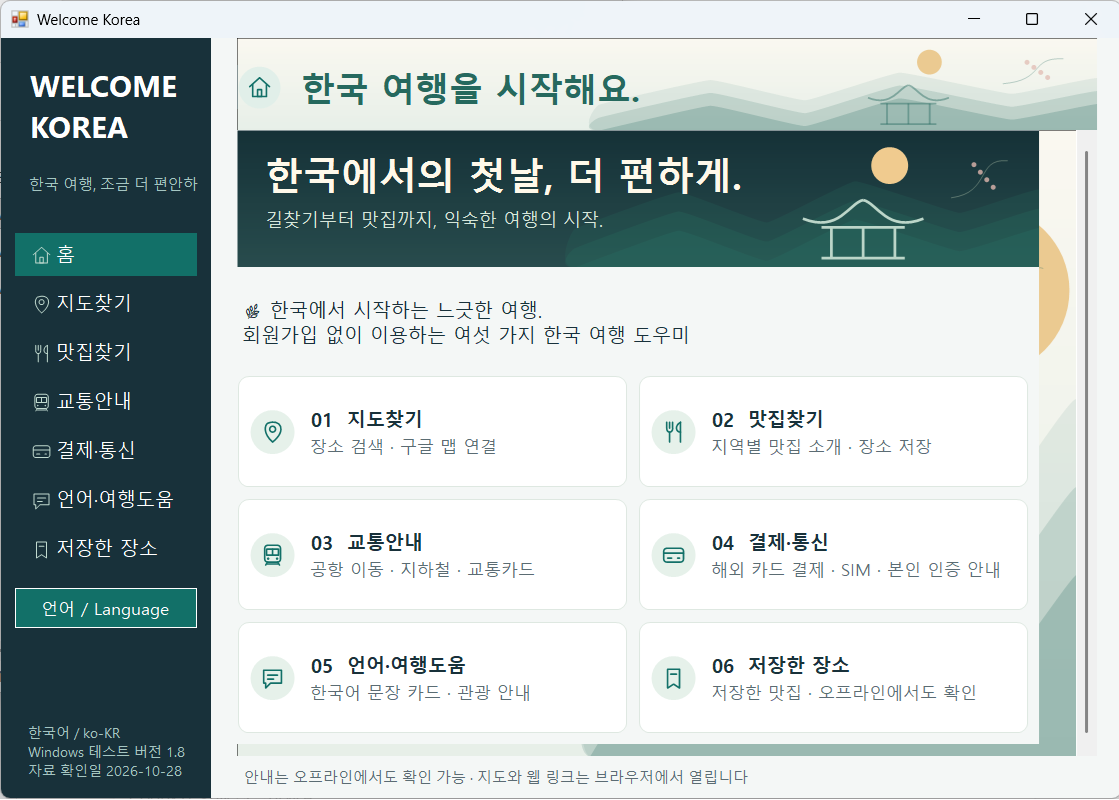
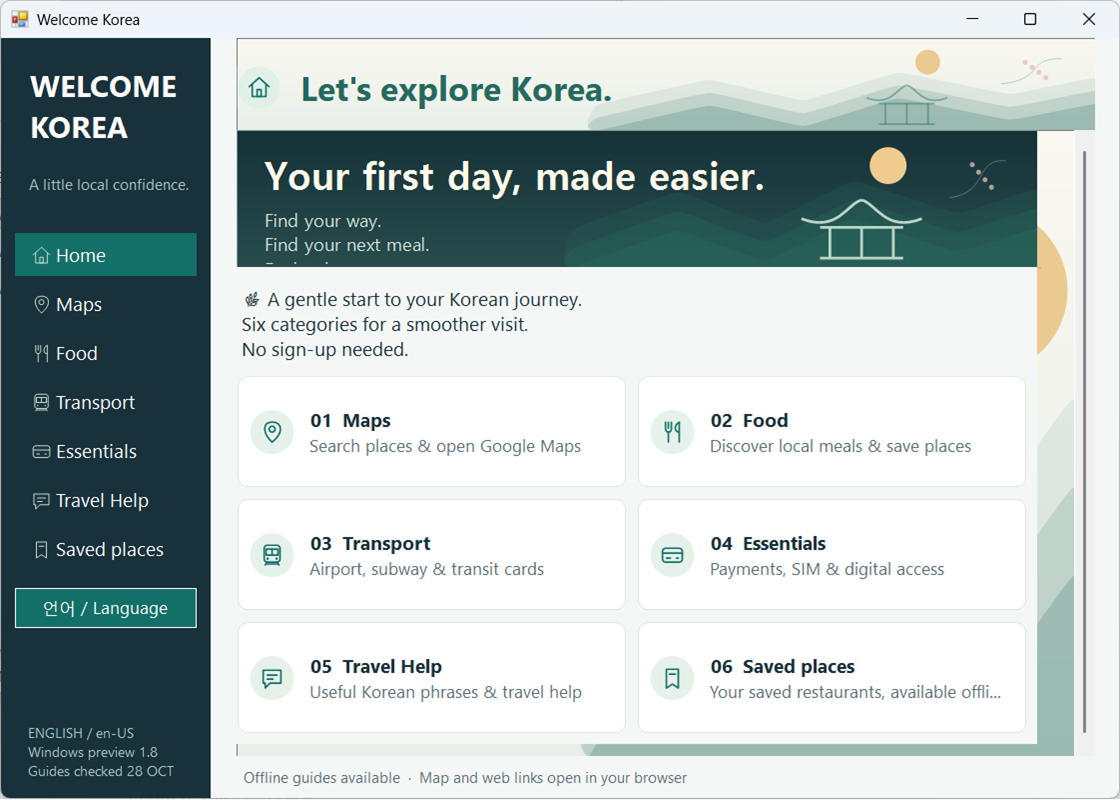
Refresh portfolio screenshots and update career aspirations

diff --git a/index.html b/index.html
@@ -42,7 +42,7 @@
           <p>현장과 소통하며, 데이터를 분석하여 손익을 개선하고, AX 패키지 세일즈를 실행해 왔습니다.</p>
         </div>
         <div class="hero-visual">
-          <img class="hero-landscape" src="assets/kim-jaehwan-hero-square.png" alt="김재환 프로필 사진">
+          <div class="hero-photo-frame"><img class="hero-landscape" src="assets/kim-jaehwan-hero-square.png" alt="김재환 프로필 사진"></div>
           <div class="hero-visual-steps"><span>분석</span><span aria-hidden="true">-</span><span>계획</span><span aria-hidden="true">-</span><span>실행</span></div>
         </div>
       </section>
@@ -67,9 +67,9 @@
           <div class="capability-row capability-work-row">
             <div class="capability-label"><span>04 / PERSONAL CREATIONS</span><h3>직접 만든 창작물</h3></div>
             <div class="capability-content"><div class="creative-showcase">
-              <article class="creation-card creation-with-image"><div class="creation-copy"><span class="work-sample-type">PROGRAM / WELCOME KOREA</span><h4>Welcome Korea</h4><p>외국인의 한국 방문 시 서비스 이용 불만을 다룬 기사를 확인하고, 여행자를 위한 도우미 프로그램을 제작했습니다.<br>지도·맛집·교통·결제·통신·언어 도움과 장소 저장 기능을 한 화면에서 안내합니다.</p><ul class="capability-tags"><li>여행 서비스</li><li>프로그램 제작</li></ul></div><div class="creation-image"><img src="assets/welcome-korea.png" alt="Welcome Korea 프로그램 화면: 지도찾기, 맛집찾기, 교통안내, 결제·통신, 언어·여행도움, 저장한 장소" loading="lazy" width="1119" height="799"></div></article>
-              <article class="creation-card creation-with-image"><div class="creation-copy"><span class="work-sample-type">WEB / HTML RESUME</span><h4>HTML 경력기술서</h4><p>경력과 주요 성과, 활용 역량을 웹페이지로 구성한 개인 경력기술서입니다.</p><ul class="capability-tags"><li>HTML</li><li>반응형 구성</li><li>경력·성과 정리</li></ul></div><div class="creation-image"><img src="assets/resume-sample.jpg" alt="김재환 HTML 경력기술서 소개 화면" loading="lazy" width="1918" height="883"></div></article>
-              <article class="creation-card creation-with-image"><div class="creation-copy"><span class="work-sample-type">DESIGN / PRODUCT DETAIL PAGE</span><h4>제품 판매용 페이지 제작</h4><p>임의로 제품을 선택하여 특징과 활용 방법을 소개하는 온라인 상세페이지를 제작했습니다.</p><ul class="capability-tags"><li>제품 상세페이지</li><li>상품 소개</li><li>콘텐츠 제작</li></ul></div><div class="creation-image"><img class="product-detail-preview" src="assets/honey-detail-sample.png" alt="꿀 상품 상세페이지 제작 샘플: 일상에 더하는 꿀 한 스푼, 음료·간식·요리 활용 소개" loading="lazy" width="1024" height="1536"></div></article>
+              <article class="creation-card creation-with-image"><div class="creation-copy"><span class="work-sample-type">PROGRAM / WELCOME KOREA</span><h4>Welcome Korea</h4><p>외국인의 한국 방문 시 서비스 이용 불만을 다룬 기사를 확인하고, 여행자를 위한 도우미 프로그램을 제작했습니다.<br>지도·맛집·교통·결제·통신·언어 도움과 장소 저장 기능을 한 화면에서 안내합니다.</p><ul class="capability-tags"><li>여행 서비스</li><li>프로그램 제작</li></ul></div><div class="creation-image"><img src="assets/welcome-korea.png" alt="Welcome Korea 영어 프로그램 화면: 지도찾기, 맛집찾기, 교통안내, 결제·통신, 언어·여행도움, 저장한 장소" loading="lazy" width="1120" height="800"></div></article>
+              <article class="creation-card creation-with-image"><div class="creation-copy"><span class="work-sample-type">WEB / HTML RESUME</span><h4>HTML 경력기술서</h4><p>경력과 주요 성과, 활용 역량을 웹페이지로 구성한 개인 경력기술서입니다.</p><ul class="capability-tags"><li>HTML</li><li>반응형 구성</li><li>경력·성과 정리</li></ul></div><div class="creation-image"><img src="assets/resume-sample.png" alt="김재환 HTML 경력기술서 소개 화면" loading="lazy" width="1120" height="800"></div></article>
+              <article class="creation-card creation-with-image"><div class="creation-copy"><span class="work-sample-type">DESIGN / PRODUCT DETAIL PAGE</span><h4>제품 판매용 페이지 제작</h4><p>임의로 제품을 선택하여 특징과 활용 방법을 소개하는 온라인 상세페이지를 제작했습니다.</p><ul class="capability-tags"><li>제품 상세페이지</li><li>상품 소개</li><li>콘텐츠 제작</li></ul></div><div class="creation-image"><img class="product-detail-preview" src="assets/honey-detail-sample.png" alt="꿀 상품 상세페이지 제작 샘플: 일상에 더하는 꿀 한 스푼, 음료·간식·요리 활용 소개" loading="lazy" width="1120" height="800"></div></article>
             </div></div>
           </div>
         </div>
@@ -168,8 +168,12 @@
       </section>
 
       <section class="section-block ninety-section" aria-labelledby="ninety-heading">
-        <div class="ninety-title"><div class="section-overline"><span class="overline-dash"></span> FIRST 90 DAYS</div><h2 id="ninety-heading">입사 후에는 <span>이렇게 기여하겠습니다</span></h2><p>영업기획·채널 관리 경험을 바탕으로 제안하는 초기 실행 계획입니다.</p></div>
-        <div class="ninety-grid"><div><span class="ninety-period">01—30 DAYS</span><h3>이해</h3><p>팀의 목표, 채널별 손익, 실제 업무 병목과 우선순위 파악</p></div><div><span class="ninety-period">31—60 DAYS</span><h3>실행</h3><p>개선 후보를 선정해 작은 단위의 검증과 협업 착수</p></div><div><span class="ninety-period">61—90 DAYS</span><h3>정착</h3><p>성과·한계 확인, 문서화, 다음 개선 과제 제안</p></div></div>
+        <div class="ninety-title"><h2 id="ninety-heading">입사 후 포부</h2><p>현장 관리 경험과 실무 능력 기반의 검증된 전문가</p></div>
+        <div class="ninety-grid">
+          <div><h3>이해</h3><p>팀의 목표와 업무 우선순위 파악을 통해 방향을 시스템에 맞추겠습니다.</p></div>
+          <div><h3>실행</h3><p>개선 필요 사항을 작은 단위로 분석하여 소통하며 성과를 향상시키겠습니다.</p></div>
+          <div><h3>정착</h3><p>분석된 자료를 문서화하여 선순환 구조가 안착될 수 있도록 다음 과업을 개선하겠습니다.</p></div>
+        </div>
       </section>
 
       <section class="contact-section" id="contact" aria-labelledby="contact-heading">

diff --git a/style.css b/style.css
@@ -269,3 +269,12 @@ svg{display:block;max-width:100%}::selection{background:var(--blue);color:var(--
 /* Uniform 4:3 portfolio previews; keep each complete image visible. */
 .creation-with-image .creation-image{display:flex;align-items:center;justify-content:center;width:100%;aspect-ratio:4/3;height:auto;overflow:hidden;background:color-mix(in srgb,var(--blue) 28%,var(--paper));padding:0}
 .creation-with-image .creation-image img{display:block;width:100%;height:100%;max-width:100%;max-height:100%;object-fit:contain;object-position:center;margin:0;border:0}
+
+/* Trim the portrait lower edge and fill portfolio frames without letterboxing. */
+.hero-photo-frame{width:100%;aspect-ratio:1/1;align-self:center;overflow:hidden;border-radius:3px;margin-bottom:18px}
+.hero-photo-frame .hero-landscape{width:100%;height:100%;margin:0;object-fit:cover;transform:scale(1.07);transform-origin:center top;border-radius:0}
+.creation-with-image .creation-image img{object-fit:cover;object-position:center}
+.creation-with-image .creation-image .product-detail-preview{object-position:center top}
+/* Match the three supplied 1120 x 800 portfolio images. */
+.creation-with-image .creation-image{aspect-ratio:7/5}
+.creation-with-image .creation-image img{object-fit:cover;object-position:center}
